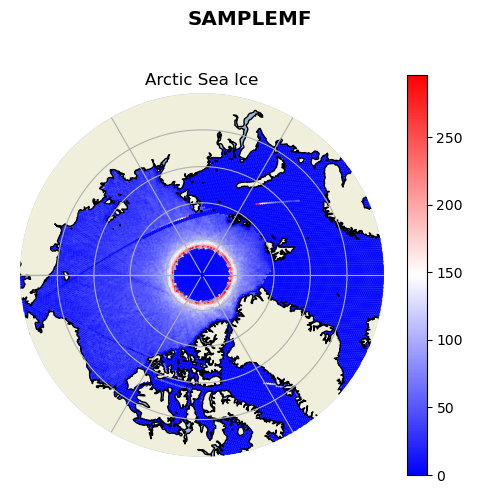
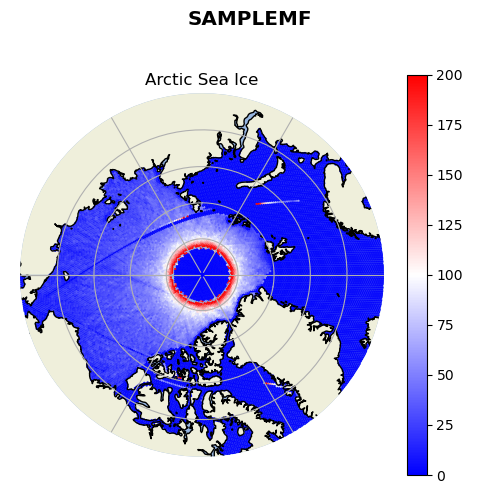
static_image

diff --git a/practice_plotting/config.py b/practice_plotting/config.py
@@ -42,7 +42,7 @@ DEFAULT_DOWNSAMPLE_FACTOR = 100
 VMIN = 0
 #VMAX = 1       # Good for Ice Area
 #VMAX = 0.7   # Good for Freeboard
-VMAX = 296    # for samplemf
+VMAX = 200    # for samplemf the max is 295 but there are not many tracks that go above 200 samples
 # VMAX = 46893  # for sampleof
 
 # Animation speed
